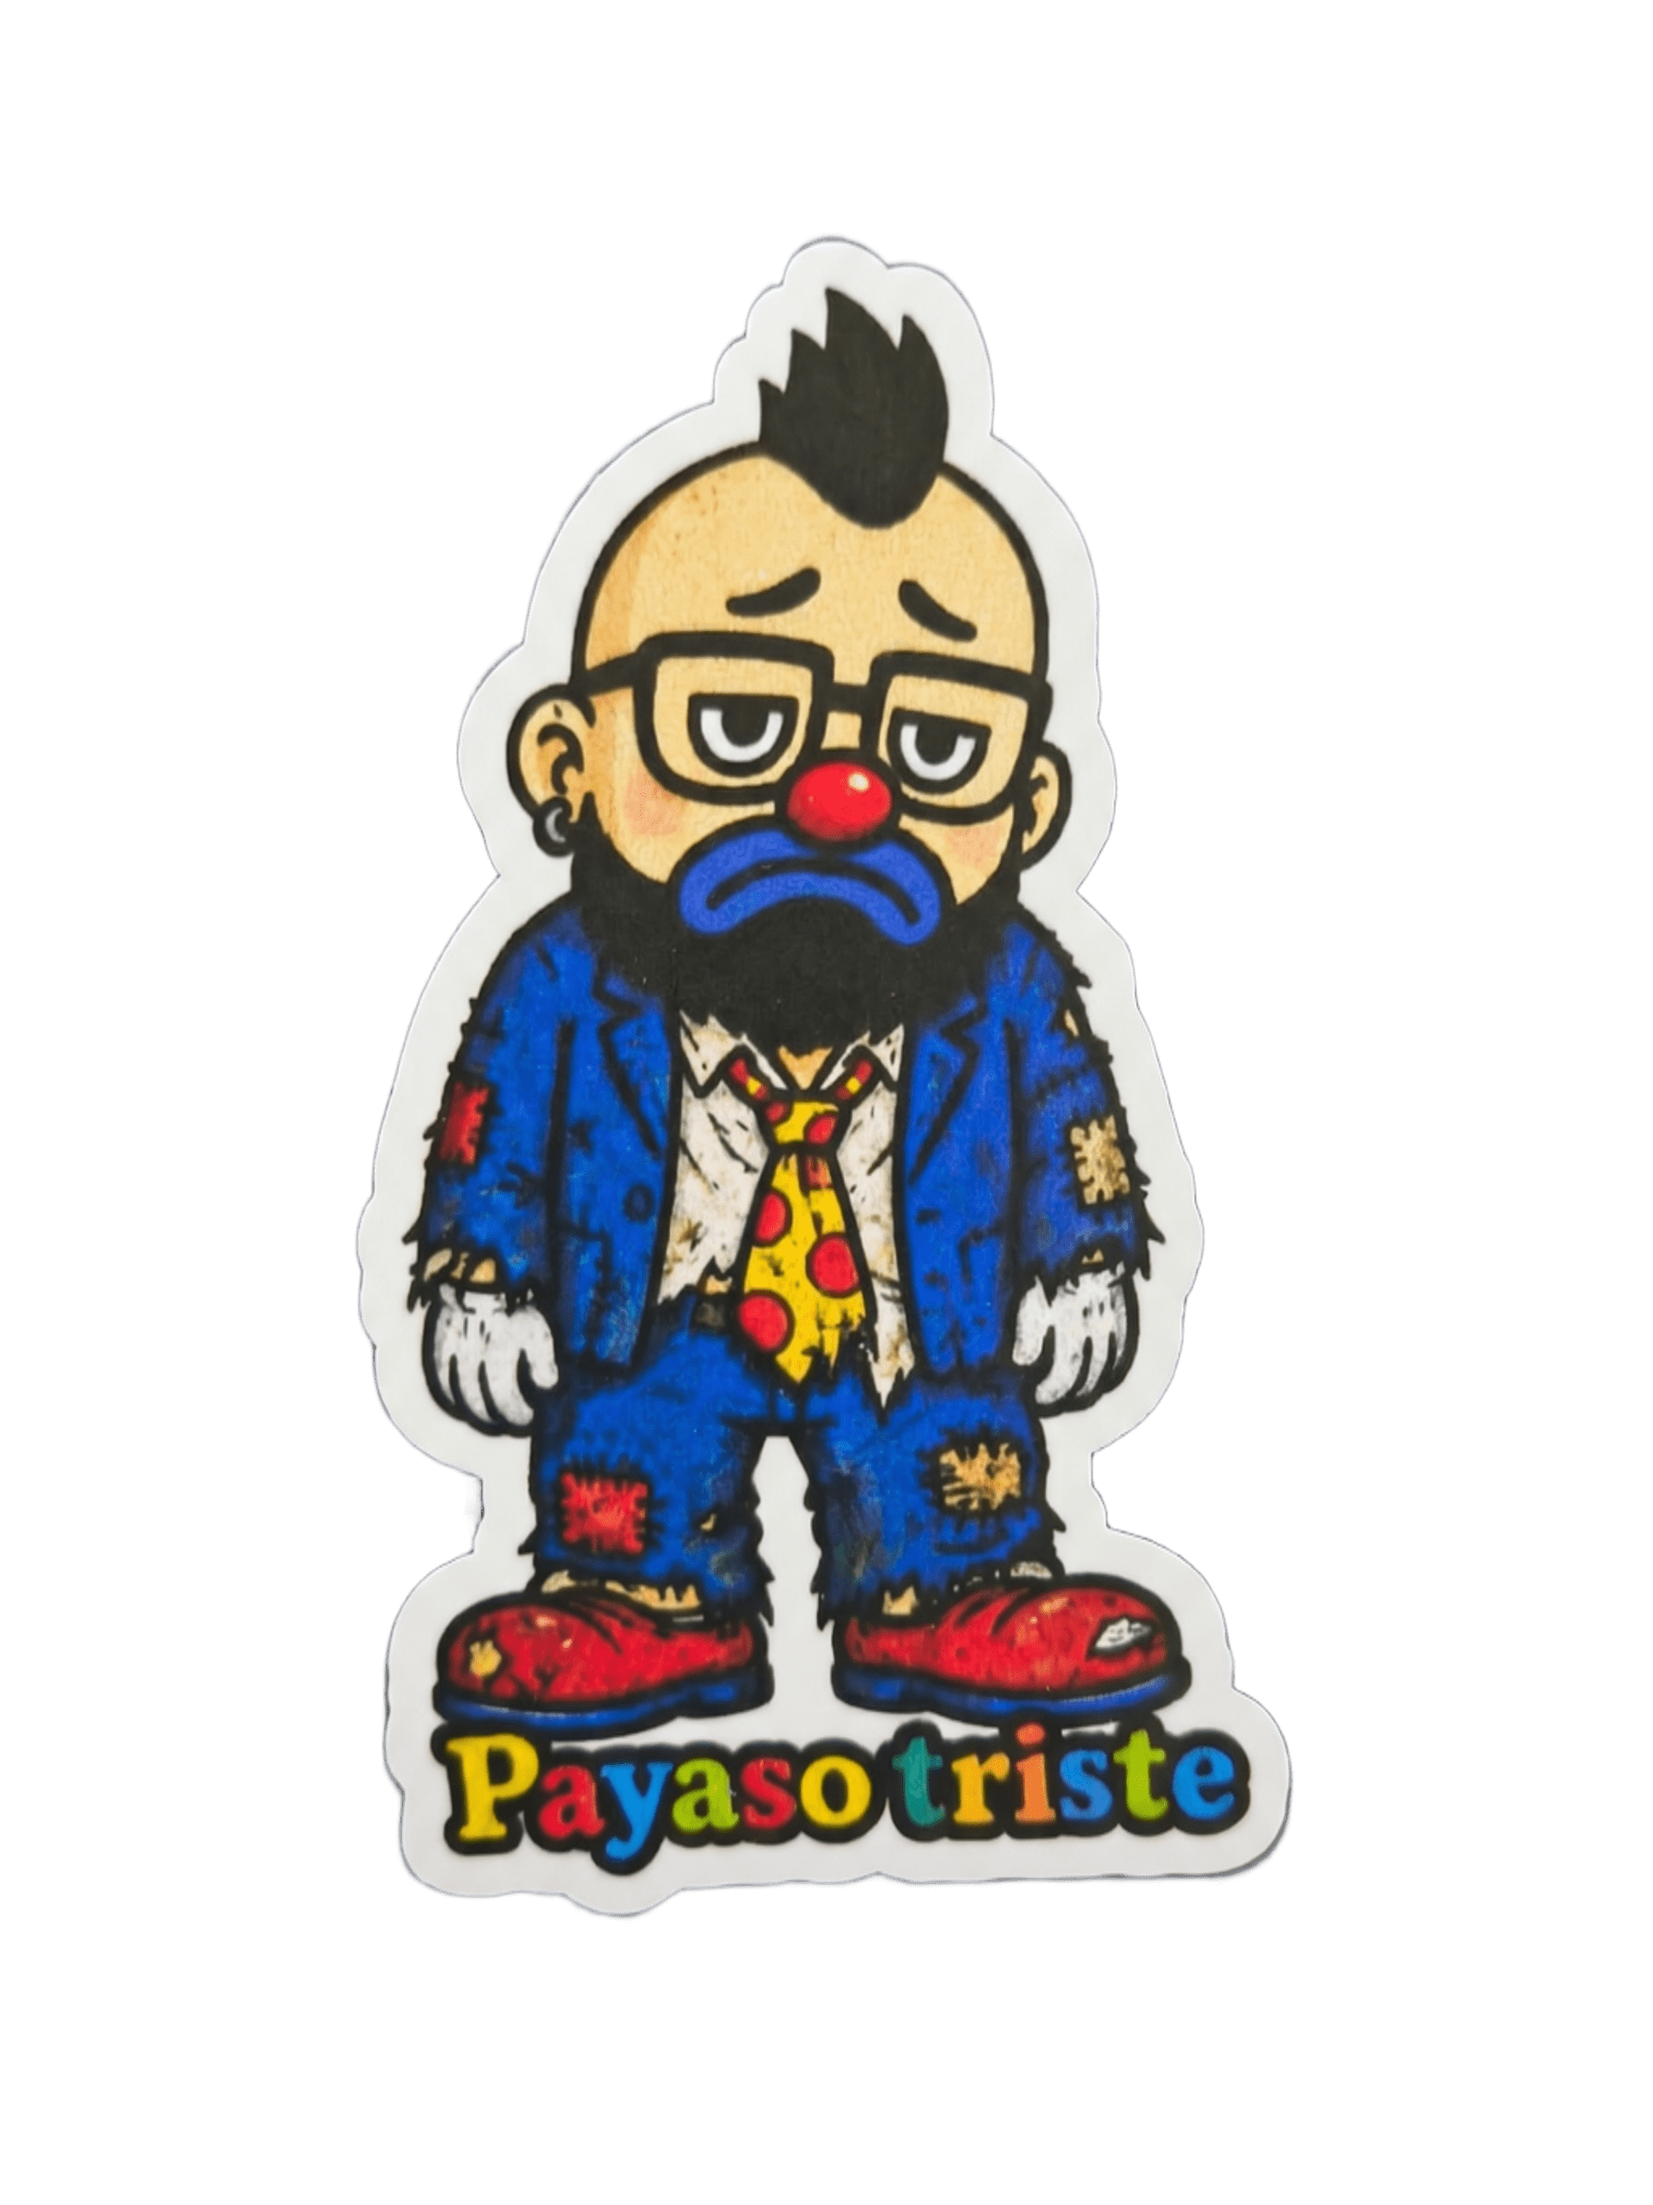
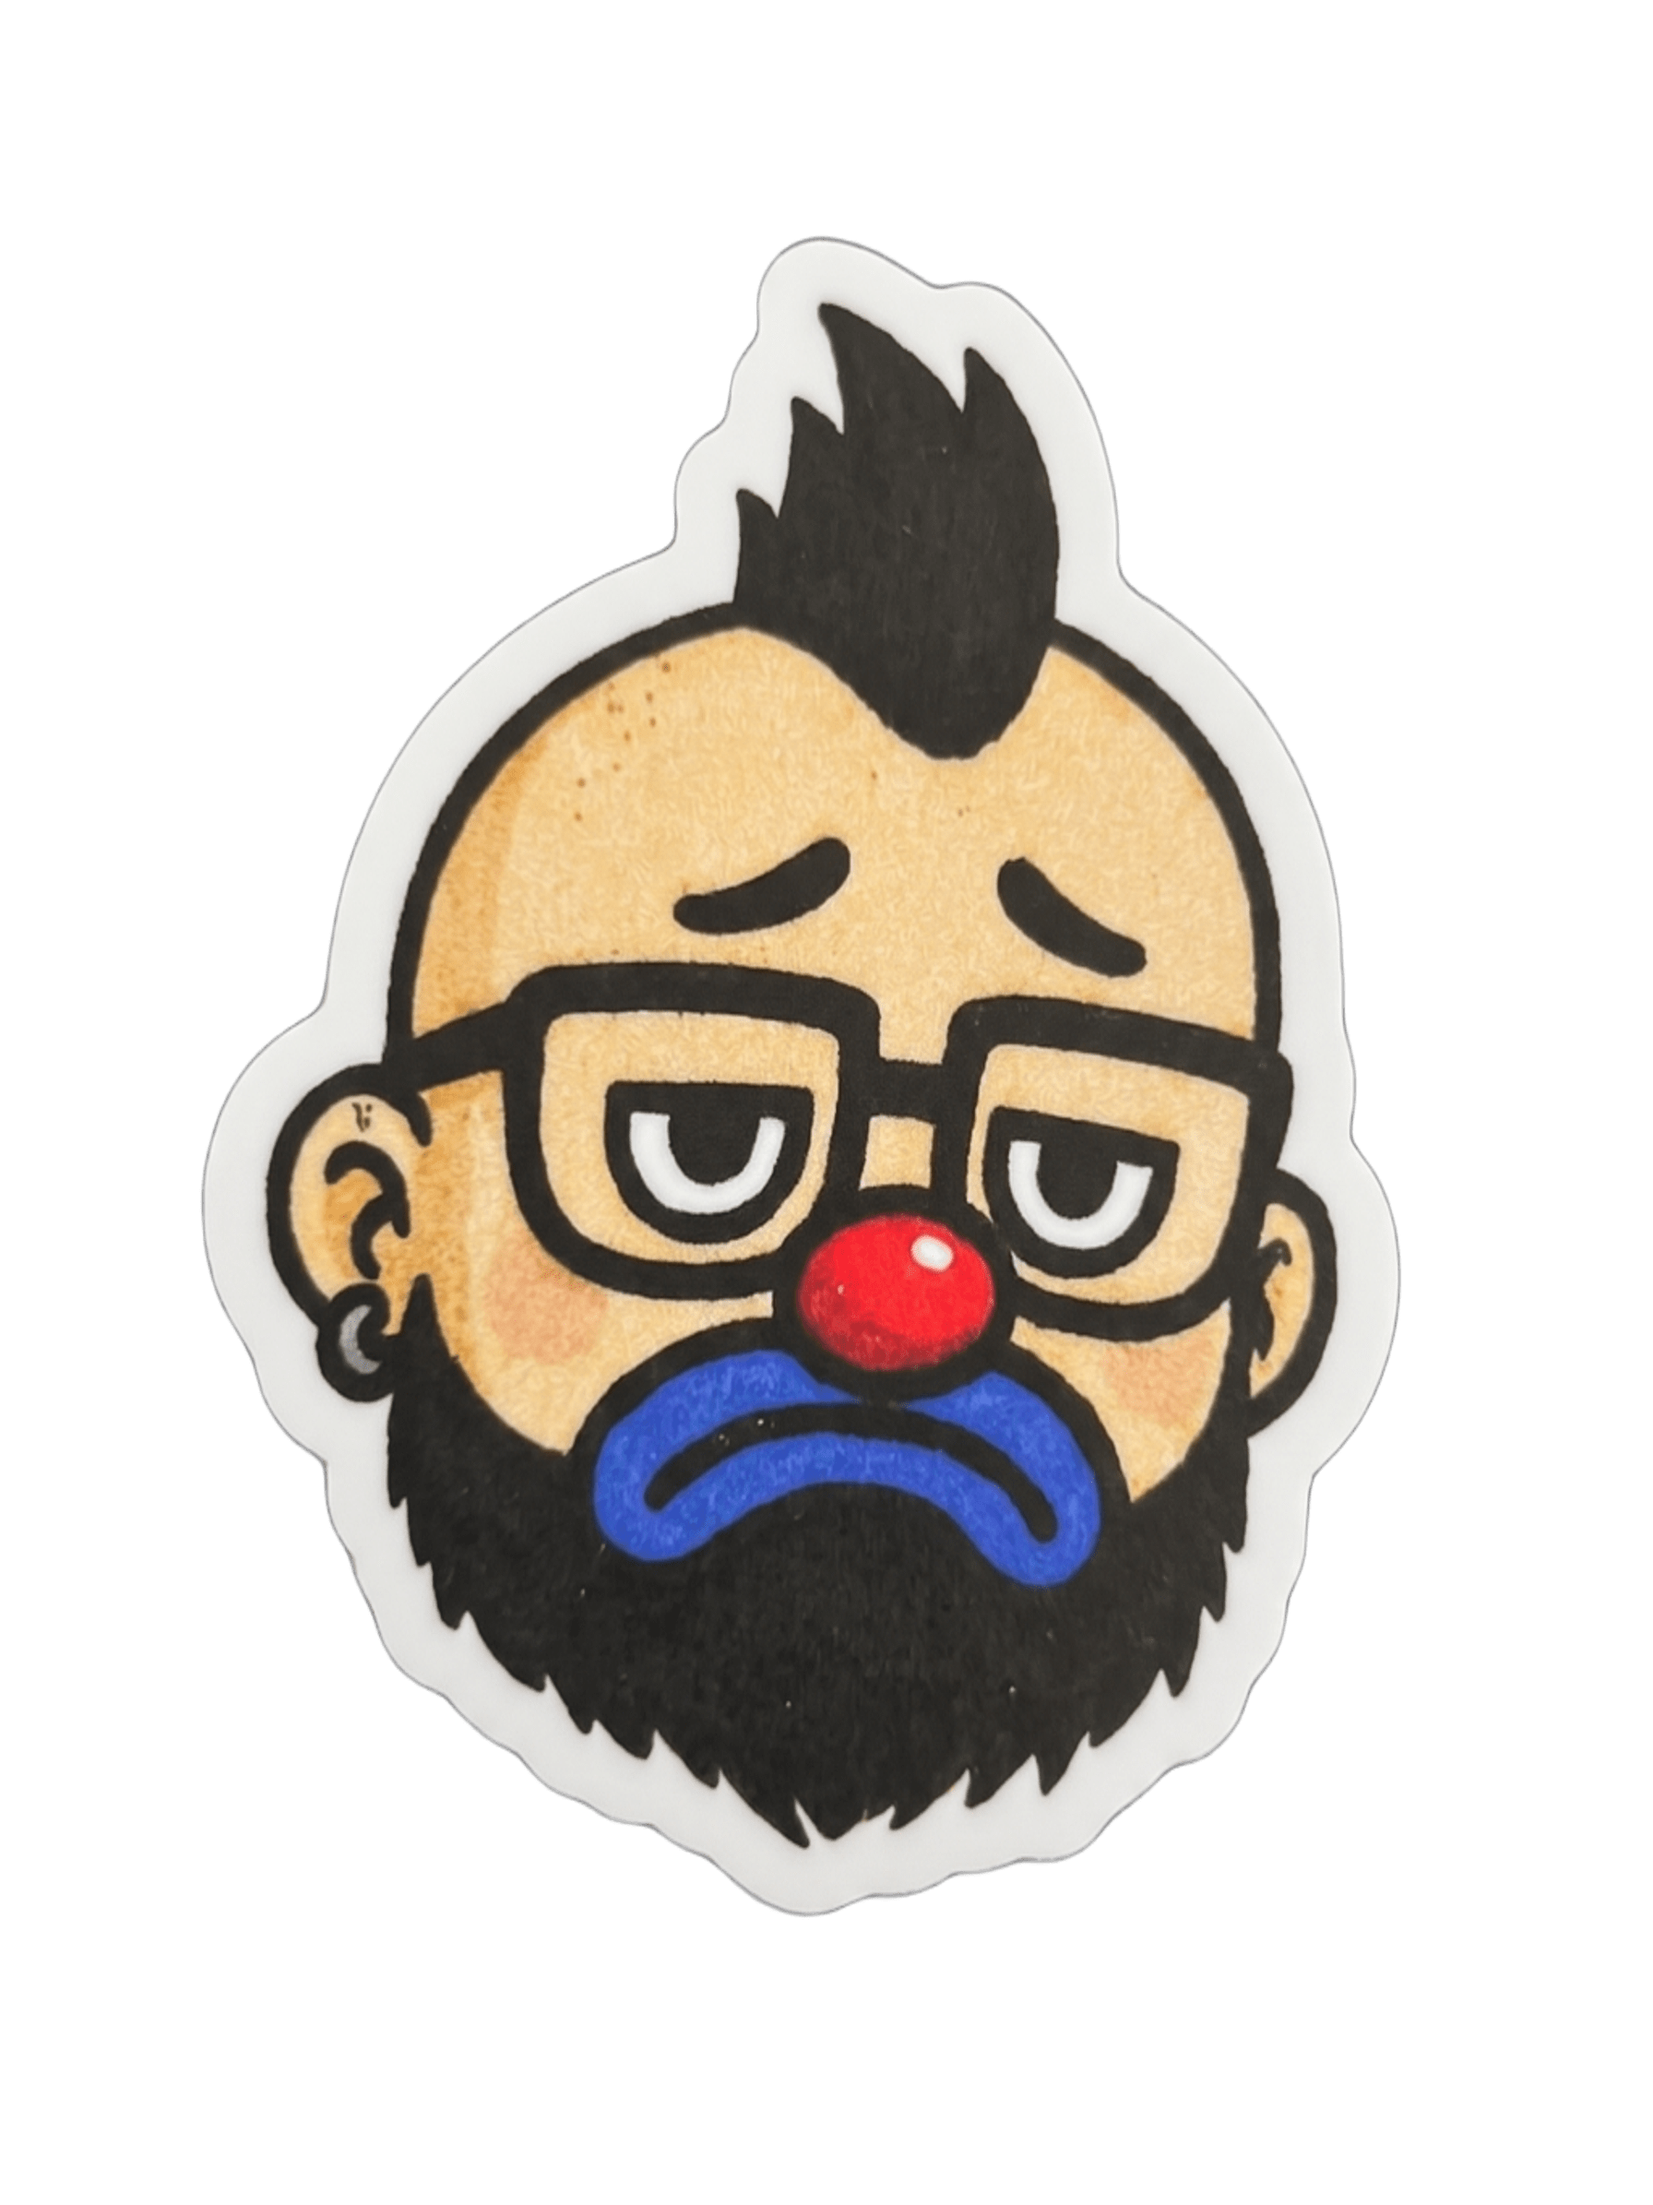
Flujo de ayuda con el payaso y cara grande en el boton

diff --git a/frontend/src/componentes/Ayuda.jsx b/frontend/src/componentes/Ayuda.jsx
@@ -2,32 +2,23 @@ import { useEffect, useState } from "react";
 
 import { cliente } from "../api/cliente.js";
 
-function AyudaAvatar({ className }) {
-  const [error, setError] = useState(false);
+function Burbuja({ children }) {
   return (
-    <span
-      className={`grid shrink-0 place-items-center overflow-hidden rounded-full bg-[#f4ecdc] ring-1 ring-acento/30 ${className}`}
-    >
-      {error ? (
-        <span className="font-bold text-[#7c5cff]">?</span>
-      ) : (
-        <img
-          src="/ayuda.png"
-          alt="Ayuda"
-          onError={() => setError(true)}
-          className="h-full w-full object-cover object-[center_18%]"
-        />
-      )}
-    </span>
+    <div className="rounded-xl rounded-tl-sm border border-borde bg-panel-2 p-3 text-sm text-tinta">
+      {children}
+    </div>
   );
 }
 
 export default function Ayuda({ slug }) {
   const [pregunta, setPregunta] = useState(null);
   const [abierto, setAbierto] = useState(false);
+  const [paso, setPaso] = useState(0);
+  const [burla, setBurla] = useState("");
   const [respuesta, setRespuesta] = useState("");
-  const [error, setError] = useState("");
+  const [errorRed, setErrorRed] = useState("");
   const [enviando, setEnviando] = useState(false);
+  const [recienAcertado, setRecienAcertado] = useState(false);
 
   useEffect(() => {
     let activo = true;
@@ -51,9 +42,24 @@ export default function Ayuda({ slug }) {
     };
   }, [slug]);
 
+  function abrir() {
+    setAbierto(true);
+    setPaso(0);
+    setBurla("");
+    setRespuesta("");
+    setErrorRed("");
+    setRecienAcertado(false);
+  }
+
+  function avanzar() {
+    setBurla("");
+    setPaso((actual) => Math.min(actual + 1, 3));
+  }
+
   async function responder(evento) {
     evento.preventDefault();
-    setError("");
+    setErrorRed("");
+    setBurla("");
     setEnviando(true);
     try {
       const { data } = await cliente.post(`retos/${slug}/mascota/`, { respuesta });
@@ -64,11 +70,12 @@ export default function Ayuda({ slug }) {
           pista: data.pista,
         }));
         setRespuesta("");
+        setRecienAcertado(true);
       } else {
-        setError(data.mensaje || "No es correcto. Inténtalo de nuevo.");
+        setBurla("Jajaja, no. Inténtelo otra vez.");
       }
     } catch (fallo) {
-      setError("No se pudo comprobar la respuesta.");
+      setErrorRed("No se pudo comprobar la respuesta.");
     } finally {
       setEnviando(false);
     }
@@ -78,76 +85,119 @@ export default function Ayuda({ slug }) {
     return null;
   }
 
+  const yaTiene = pregunta.pista_desbloqueada;
+
+  let frase;
+  if (yaTiene) {
+    frase = recienAcertado ? "Tome, vea la pista." : "Ya le di la pista. No me moleste más.";
+  } else if (paso === 0) {
+    frase = "¿Qué necesita?";
+  } else if (paso === 1) {
+    frase = "¡Qué quiere!";
+  } else if (paso === 2) {
+    frase = "No sea cansón.";
+  } else {
+    frase = "Listo, pero respóndame esto:";
+  }
+
+  const textoBoton = paso === 2 ? "Por favor" : "Necesito ayuda";
+
   return (
-    <div className="fixed bottom-5 right-5 z-40 flex flex-col items-end gap-3">
+    <>
       {abierto ? (
-        <div className="panel w-[min(92vw,360px)] overflow-hidden shadow-2xl">
-          <div className="flex items-center justify-between border-b border-borde bg-superficie px-4 py-3">
-            <div className="flex items-center gap-2">
-              <AyudaAvatar className="h-9 w-9" />
-              <div>
-                <p className="text-sm font-semibold text-tinta">Ayuda</p>
-                <p className="text-[11px] text-apagado">Pistas del reto</p>
-              </div>
-            </div>
+        <div
+          className="fixed inset-0 z-50 flex items-center justify-center bg-[#05070d]/70 p-4 backdrop-blur-sm"
+          role="dialog"
+          aria-modal="true"
+          aria-label="Ayuda"
+          onClick={() => setAbierto(false)}
+        >
+          <div
+            className="panel relative w-full max-w-3xl overflow-hidden"
+            onClick={(evento) => evento.stopPropagation()}
+          >
             <button
               type="button"
               onClick={() => setAbierto(false)}
-              className="rounded-full px-2 py-1 text-apagado transition hover:text-tinta"
               aria-label="Cerrar ayuda"
+              className="absolute right-3 top-3 z-10 grid h-9 w-9 place-items-center rounded-full border border-borde bg-superficie text-apagado transition hover:text-tinta"
             >
               ✕
             </button>
-          </div>
 
-          <div className="p-4">
-            {pregunta.pista_desbloqueada ? (
-              <div className="rounded-xl border border-acento/40 bg-acento/10 p-3">
-                <p className="text-xs font-semibold text-acento-suave">Pista desbloqueada</p>
-                <p className="mt-1 text-sm text-tinta">{pregunta.pista}</p>
+            <div className="grid sm:grid-cols-[280px_1fr]">
+              <div className="flex items-center justify-center bg-[#f4ecdc] p-5">
+                <img
+                  src="/ayuda2.png"
+                  alt="Ayuda"
+                  className="max-h-[380px] w-auto object-contain drop-shadow-md"
+                />
               </div>
-            ) : (
-              <>
-                <div className="rounded-xl rounded-tl-sm border border-borde bg-panel-2 p-3 text-sm text-tinta">
-                  {pregunta.texto}
+
+              <div className="flex flex-col gap-4 p-6">
+                <div className="flex items-center gap-2">
+                  <span className="h-2.5 w-2.5 rounded-full bg-acento" />
+                  <p className="text-sm font-semibold text-tinta">
+                    Ayuda <span className="font-normal text-apagado">· pistas del reto</span>
+                  </p>
                 </div>
-                <form className="mt-3" onSubmit={responder}>
-                  <input
-                    className="campo"
-                    value={respuesta}
-                    onChange={(evento) => setRespuesta(evento.target.value)}
-                    placeholder="Escribe tu respuesta"
-                  />
-                  <button type="submit" className="boton-primario mt-2 w-full" disabled={enviando}>
-                    {enviando ? "Comprobando…" : "Responder"}
-                  </button>
-                </form>
-                {error ? <p className="mt-2 text-sm text-peligro">{error}</p> : null}
-              </>
-            )}
+
+                <Burbuja>{frase}</Burbuja>
+
+                {yaTiene ? (
+                  <div className="rounded-xl border border-acento/40 bg-acento/10 p-3">
+                    <p className="text-xs font-semibold text-acento-suave">Pista</p>
+                    <p className="mt-1 text-sm text-tinta">{pregunta.pista}</p>
+                  </div>
+                ) : paso < 3 ? (
+                  <div className="mt-auto">
+                    <button type="button" className="boton-primario w-full" onClick={avanzar}>
+                      {textoBoton}
+                    </button>
+                  </div>
+                ) : (
+                  <>
+                    <Burbuja>{pregunta.texto}</Burbuja>
+                    {burla ? <Burbuja>{burla}</Burbuja> : null}
+                    <form className="flex flex-col gap-2" onSubmit={responder}>
+                      <input
+                        className="campo"
+                        value={respuesta}
+                        onChange={(evento) => setRespuesta(evento.target.value)}
+                        placeholder="Escriba su respuesta"
+                      />
+                      <button type="submit" className="boton-primario" disabled={enviando}>
+                        {enviando ? "Comprobando…" : "Responder"}
+                      </button>
+                    </form>
+                    {errorRed ? <p className="text-sm text-peligro">{errorRed}</p> : null}
+                  </>
+                )}
+              </div>
+            </div>
           </div>
         </div>
       ) : null}
 
-      <div className="flex items-center gap-2">
-        {!abierto ? (
-          <span className="hidden rounded-full border border-borde bg-superficie px-3 py-1 text-xs text-apagado sm:block">
-            ¿Necesitas ayuda?
-          </span>
-        ) : null}
+      <div className="fixed bottom-5 right-5 z-40 flex items-center gap-2">
+        <span className="hidden rounded-full border border-borde bg-superficie px-3 py-1 text-xs text-apagado sm:block">
+          ¿Necesitas ayuda?
+        </span>
         <button
           type="button"
-          onClick={() => setAbierto((valor) => !valor)}
-          aria-expanded={abierto}
+          onClick={abrir}
           aria-label="Abrir ayuda"
-          className="relative grid h-16 w-16 place-items-center rounded-full shadow-[0_10px_30px_rgba(124,92,255,.35)] transition hover:scale-105"
+          className="relative h-16 w-16 overflow-hidden rounded-full shadow-[0_10px_30px_rgba(124,92,255,.35)] ring-2 ring-acento/40 transition hover:scale-105"
         >
-          <span className="absolute inset-0 -z-10 rounded-full bg-acento/10" />
-          <span className="mascota-flotar">
-            <AyudaAvatar className="h-16 w-16" />
+          <span className="mascota-flotar block h-full w-full">
+            <img
+              src="/ayuda.png"
+              alt="Ayuda"
+              className="h-full w-full scale-110 object-cover object-center"
+            />
           </span>
         </button>
       </div>
-    </div>
+    </>
   );
 }
